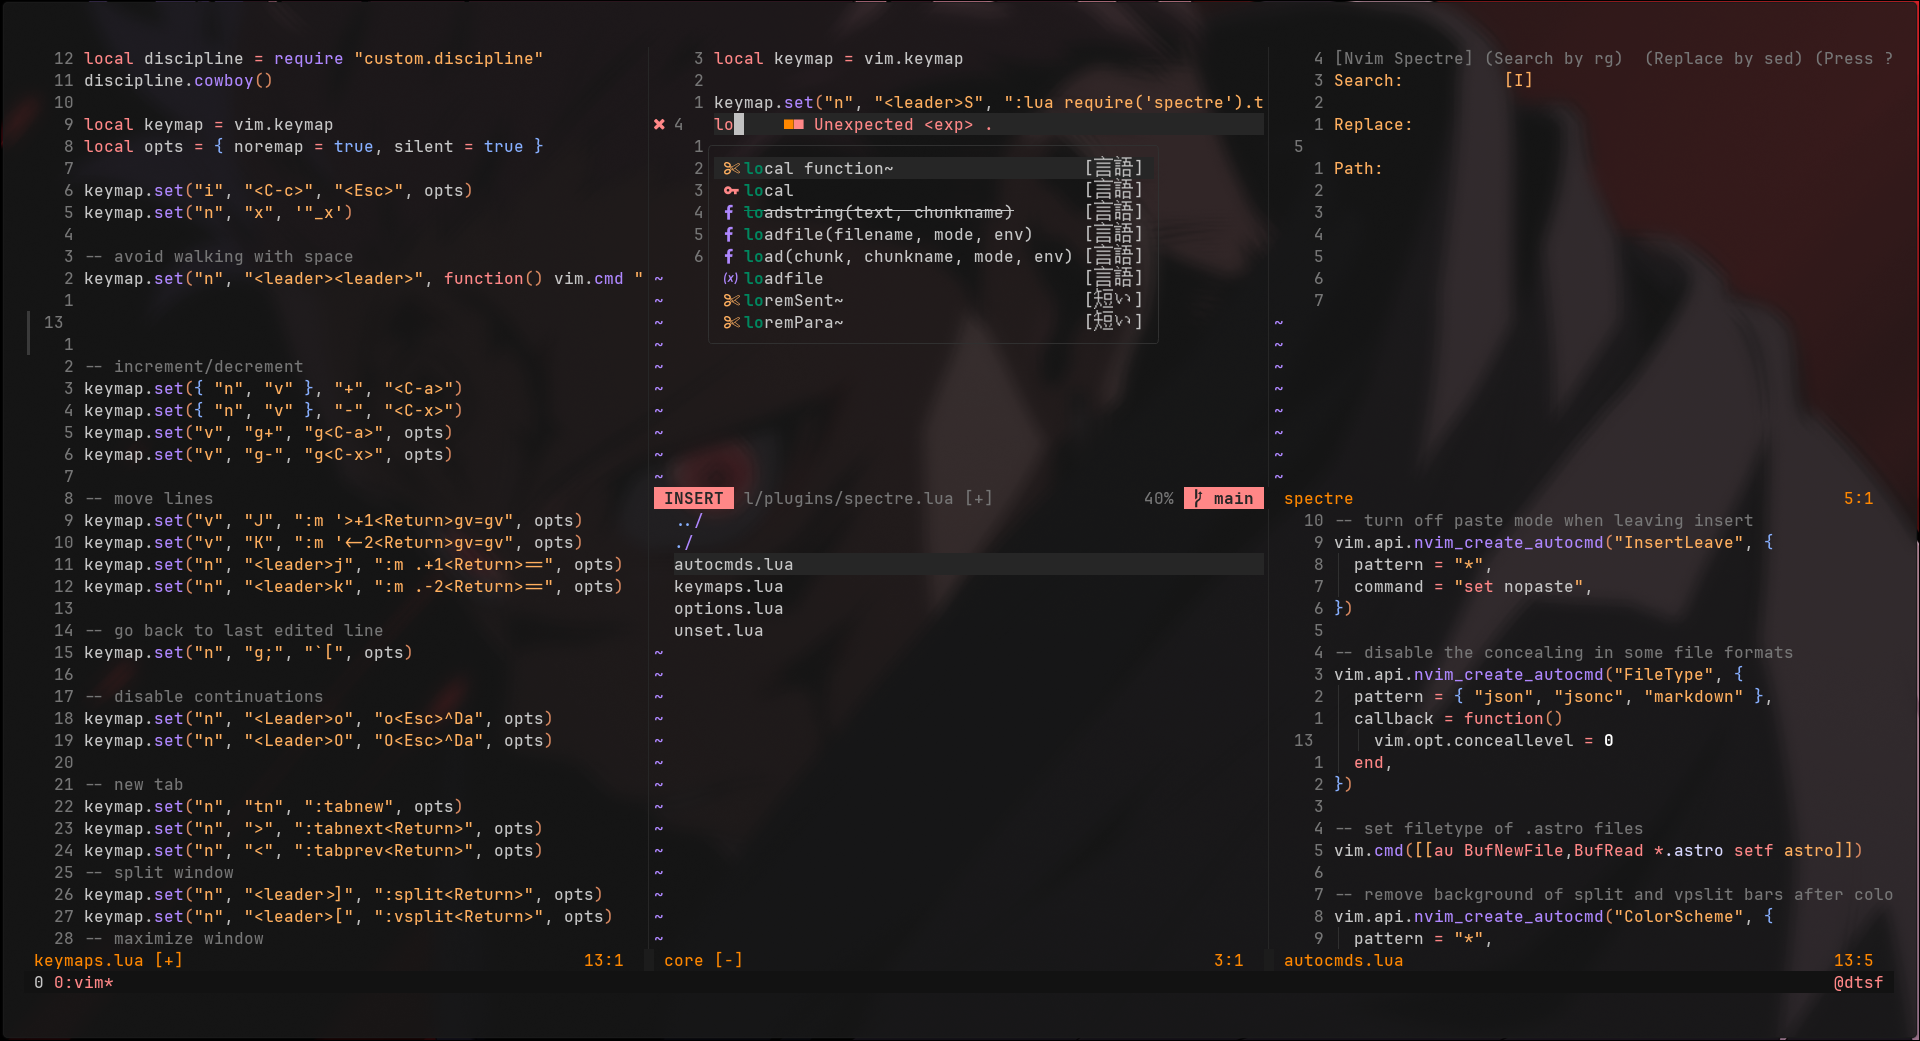
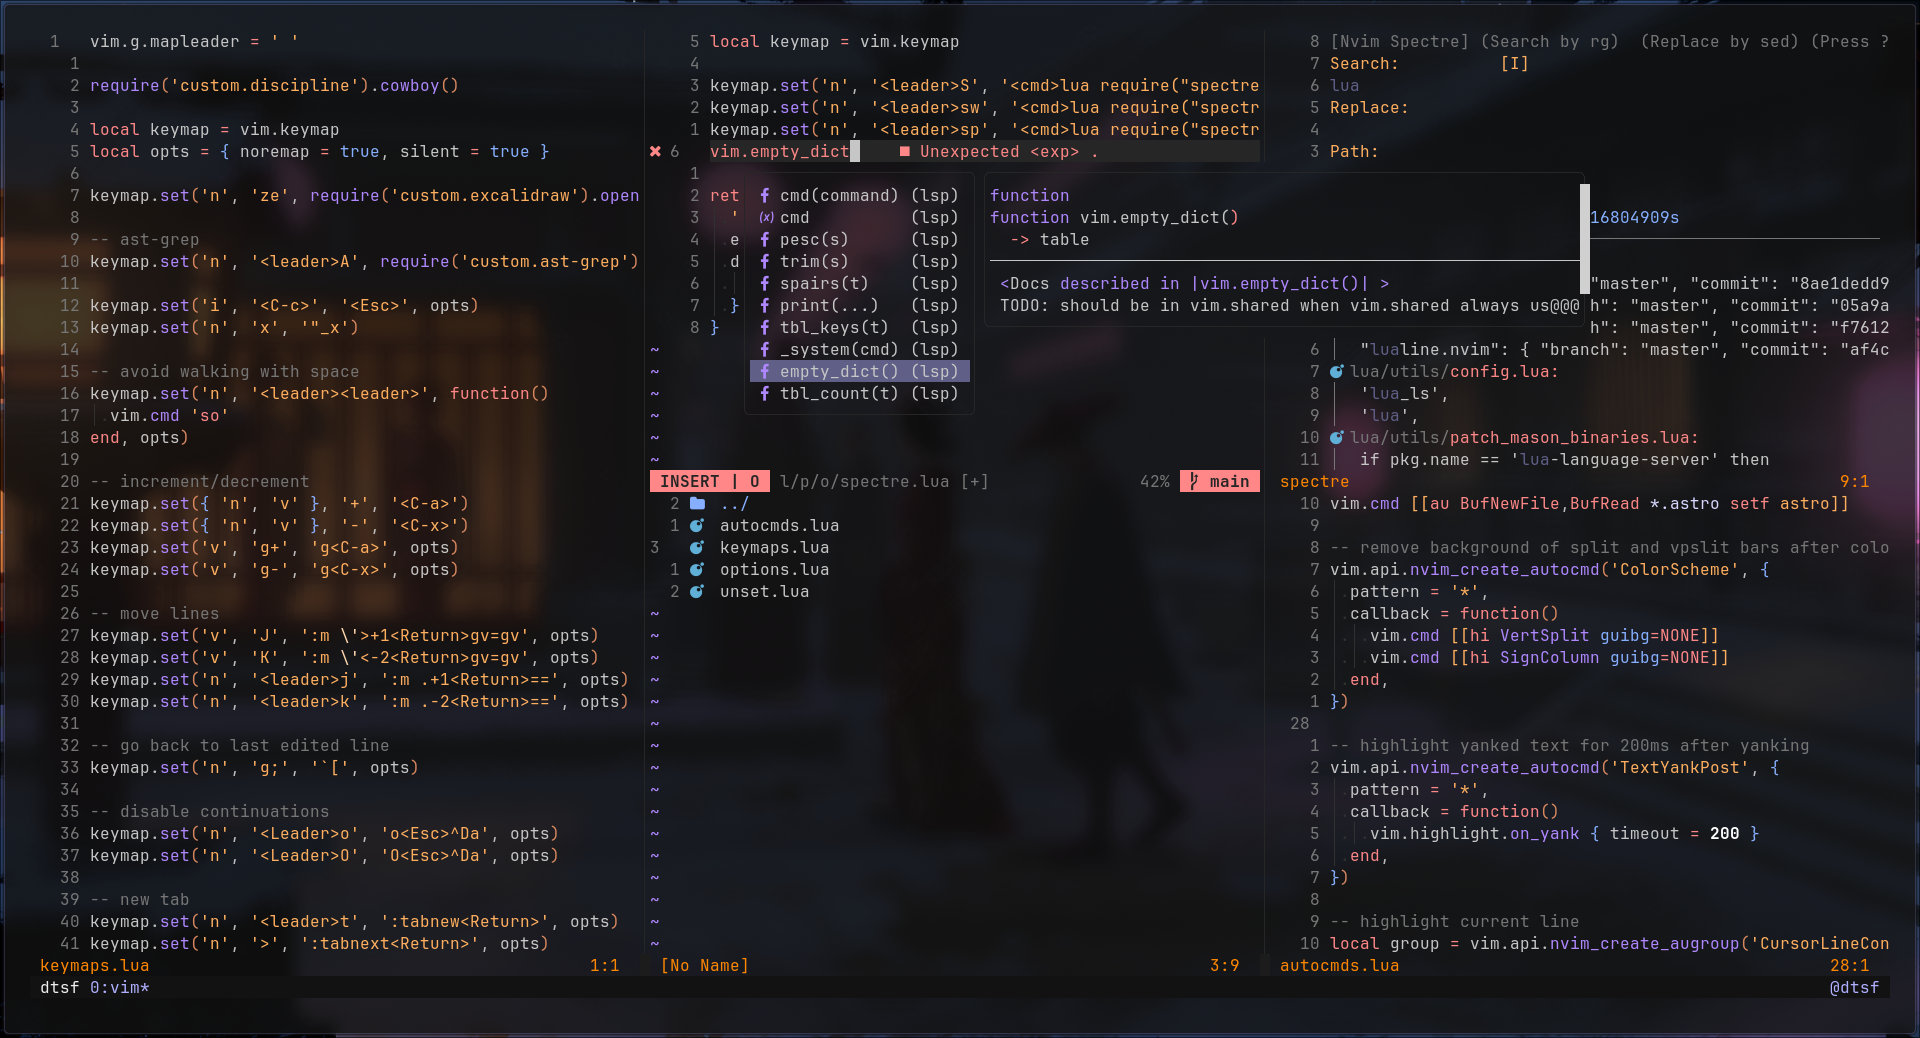
docs: update preview image

diff --git a/README.md b/README.md
@@ -6,7 +6,7 @@ This is a personal configuration for Neovim. You can use it as starting point fo
 
 ![Preview](./assets/preview.png)
 
-*Note: using [min-theme](https://github.com/datsfilipe/min-theme.nvim) in the screenshot.*
+*Note: using [catppuccin](https://github.com/catppuccin/nvim) in the screenshot.*
 
 ## Installation
 
